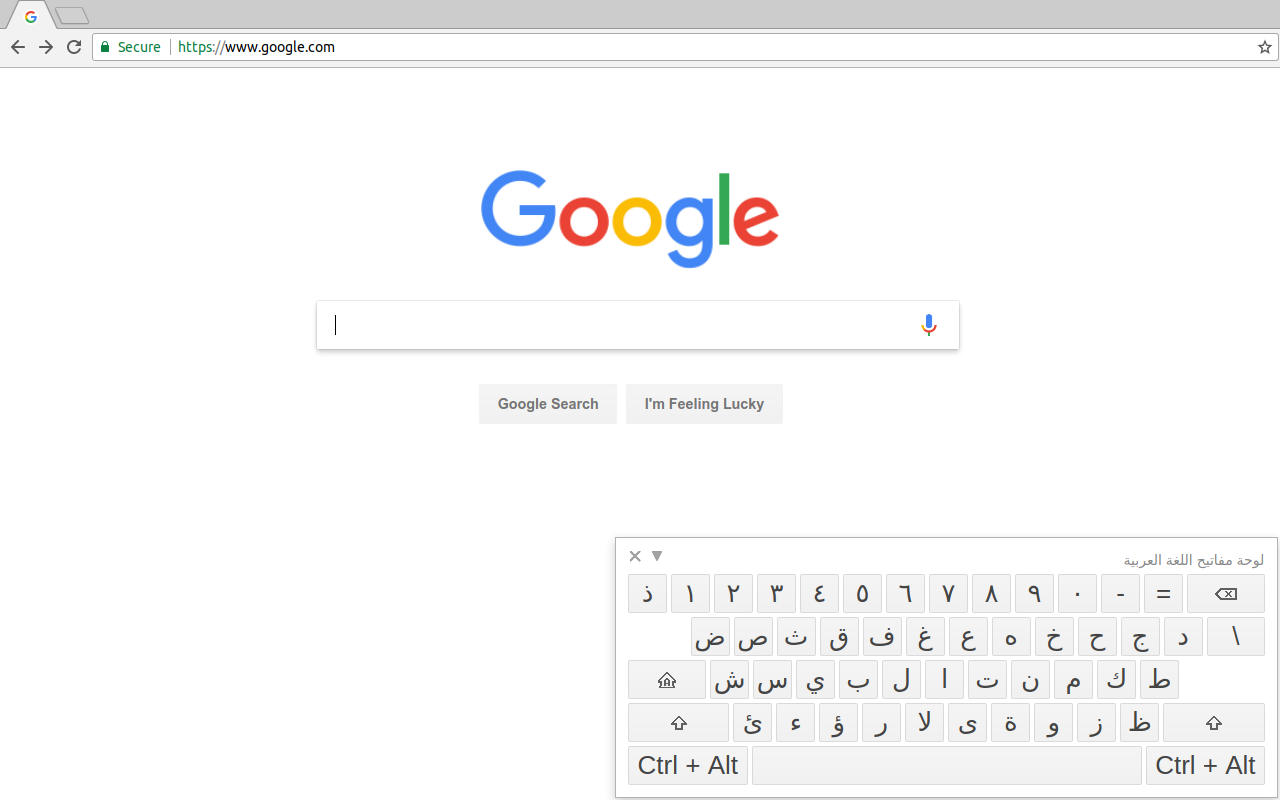
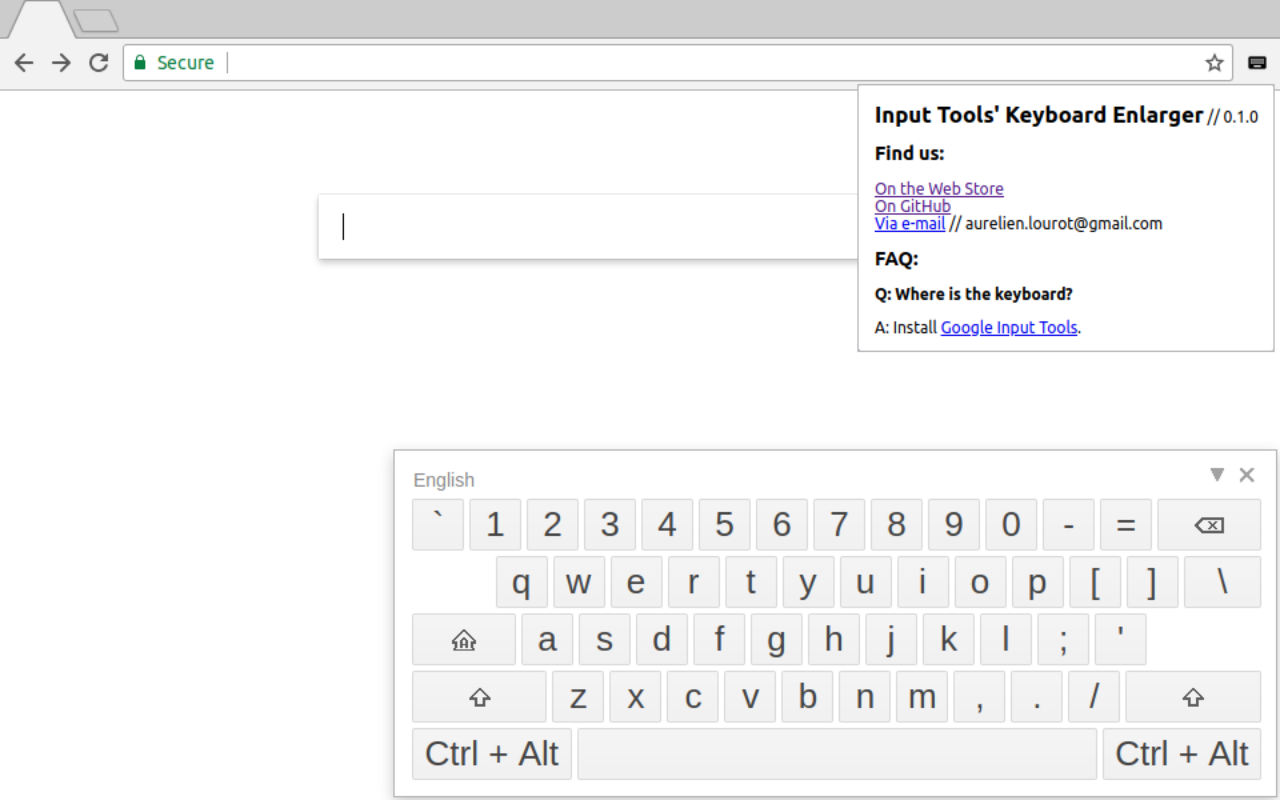
Changed name and appearance to be compatible with the Web Store's guidelines // #1

diff --git a/popup.js b/popup.js
@@ -2,6 +2,12 @@ document.addEventListener('DOMContentLoaded', () => {
   var manifest = chrome.runtime.getManifest();
   document.body.innerHTML = `
 <h1>${manifest.name}</h1> // ${manifest.version}
+<h2>Find us:</h2>
+<a target="_blank" href="https://chrome.google.com/webstore/detail/large-keyboard-for-google/gjhnbhjegnfhehpjhkajgfbkcbpmomoh">On the Web Store</a><br />
+<a target="_blank" href="https://github.com/AurelienLourot/google-input-tools-large-keyboard">On GitHub</a><br />
+<a target="_blank" href="mailto:aurelien.lourot@gmail.com">Via e-mail</a> // aurelien.lourot@gmail.com
+
+<h2>FAQ:</h2>
 <p class="question">Q: Where is the keyboard?</p>
 <p class="answer">
   A: Install

diff --git a/popup.html b/popup.html
@@ -8,8 +8,12 @@
       }
 
       h1 {
-        font-size: 1.3em;
+        font-size: 1.4em;
         display: inline;
+      }
+
+      h2 {
+        font-size: 1.2em;
       }
 
       .question {

diff --git a/README.md b/README.md
@@ -1,6 +1,3 @@
-> **WARNING**: Google took the extension down from the Web Store, see
-> [#1](https://github.com/AurelienLourot/google-input-tools-large-keyboard/issues/1).
-
 [![Chrome Web Store](thirdparty/badges/users.svg)](https://chrome.google.com/webstore/detail/large-keyboard-for-google/gjhnbhjegnfhehpjhkajgfbkcbpmomoh)
 [![Chrome Web Store](thirdparty/badges/rating.svg)](https://chrome.google.com/webstore/detail/large-keyboard-for-google/gjhnbhjegnfhehpjhkajgfbkcbpmomoh)
 

diff --git a/docs/publish.md b/docs/publish.md
@@ -2,7 +2,7 @@
 
 ```
 $ cd ../
-$ export version=0.0.1
+$ export version=7.8.9
 $ sed -i "s/  \"version\": \".*\",/  \"version\": \"$version\",/g" manifest.json
 $ git commit -am $version
 $ git push
